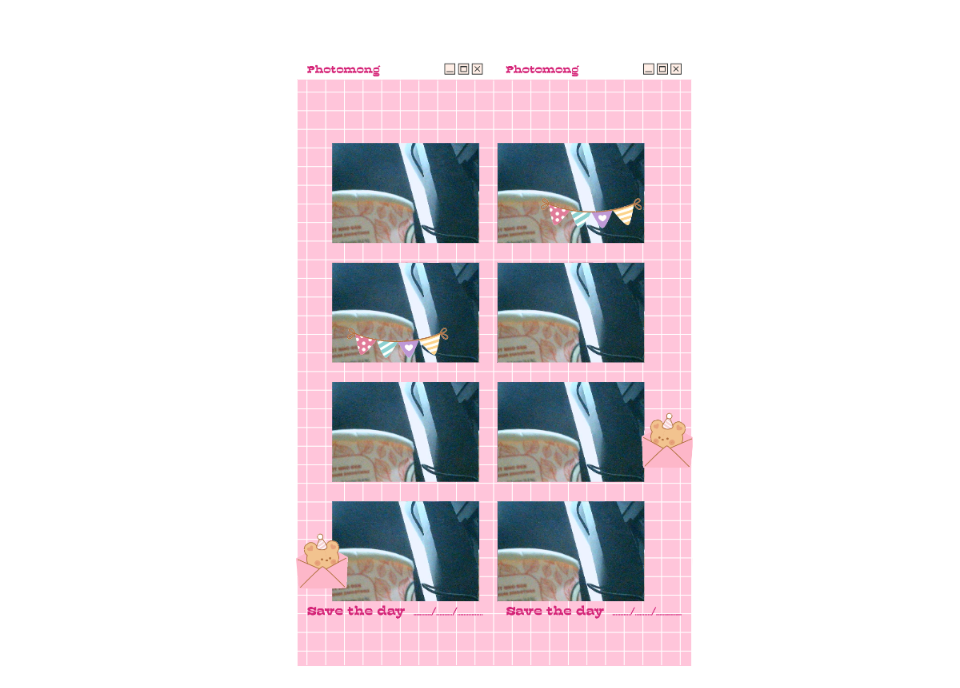
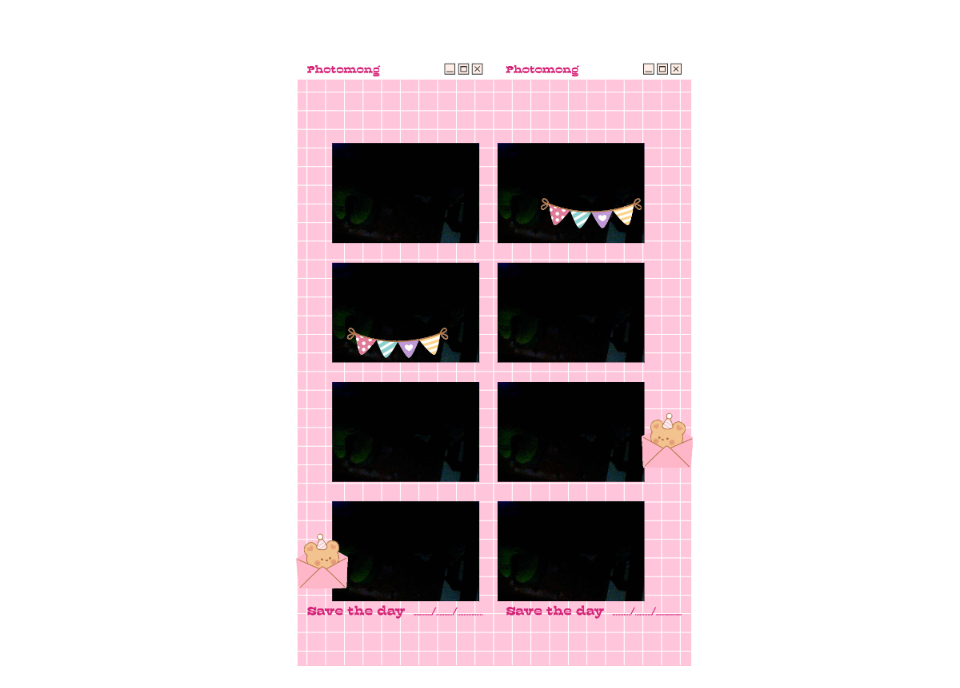
Photomong

Changed region(s): [[0.3438, 0.1831, 0.6875, 0.8852]]

diff --git a/app/src/screens/Sticker.js b/app/src/screens/Sticker.js
@@ -31,7 +31,7 @@ function Filter() {
      const [selectedFrame, setSelectedFrame] = useState(null);
      const [images, setImages] = useState([]);
      const [selectedId, selectShape] = useState(null);
-     // const [background] = useImage(sessionStorage.getItem('downloaded-image'), 'Anonymous');
+     const [doneSticker, setDoneSticker] = useState(false);
 
      const background = new Image();
      background.crossOrigin = 'Anonymous';
@@ -281,7 +281,10 @@ function Filter() {
 
      const printFrameWithSticker = () => {
           // callPrintAPI();
-          navigate("/print");
+          setDoneSticker(true);
+          setTimeout(() => {
+               navigate("/print");
+          }, 3000);          
      }
 
      // TODO
@@ -359,6 +362,7 @@ function Filter() {
                                                   newImages[i] = newAttrs;
                                                   setImages(newImages);
                                              }}
+                                             isDoneSticker={doneSticker}
                                         />
                                    );
                               })}

diff --git a/app/src/screens/StickerItem.js b/app/src/screens/StickerItem.js
@@ -4,12 +4,12 @@ import { Image as KonvaImage, Group, Rect, Transformer } from 'react-konva';
 import { useHoverDirty, useLongPress } from 'react-use';
 import cancelImage from "../assets/Sticker/items/cancel.png";
 
-export const StickerItem = ({ image, onDelete, onDragEnd, isSelected, onSelect, onChange }) => {
+export const StickerItem = ({ image, onDelete, onDragEnd, isSelected, onSelect, onChange, isDoneSticker }) => {
     const imageRef = useRef(null);
     const isHovered = useHoverDirty(imageRef);
     const [stickerImage] = useImage(image.src);
     const [deleteImage] = useImage(cancelImage);
-    const [showDeleteButton, setShowDeleteButton] = useState(false);
+    const [showDeleteButton, setShowDeleteButton] = useState(false);    
 
     const trRef = useRef();
 
@@ -92,7 +92,7 @@ export const StickerItem = ({ image, onDelete, onDragEnd, isSelected, onSelect, 
                     // })
                 }}
             />
-            {isSelected && !isDragging && (
+            {isSelected && !isDragging && !isDoneSticker && (
                 <Transformer
                     ref={trRef}
                     boundBoxFunc={(oldBox, newBox) => {
